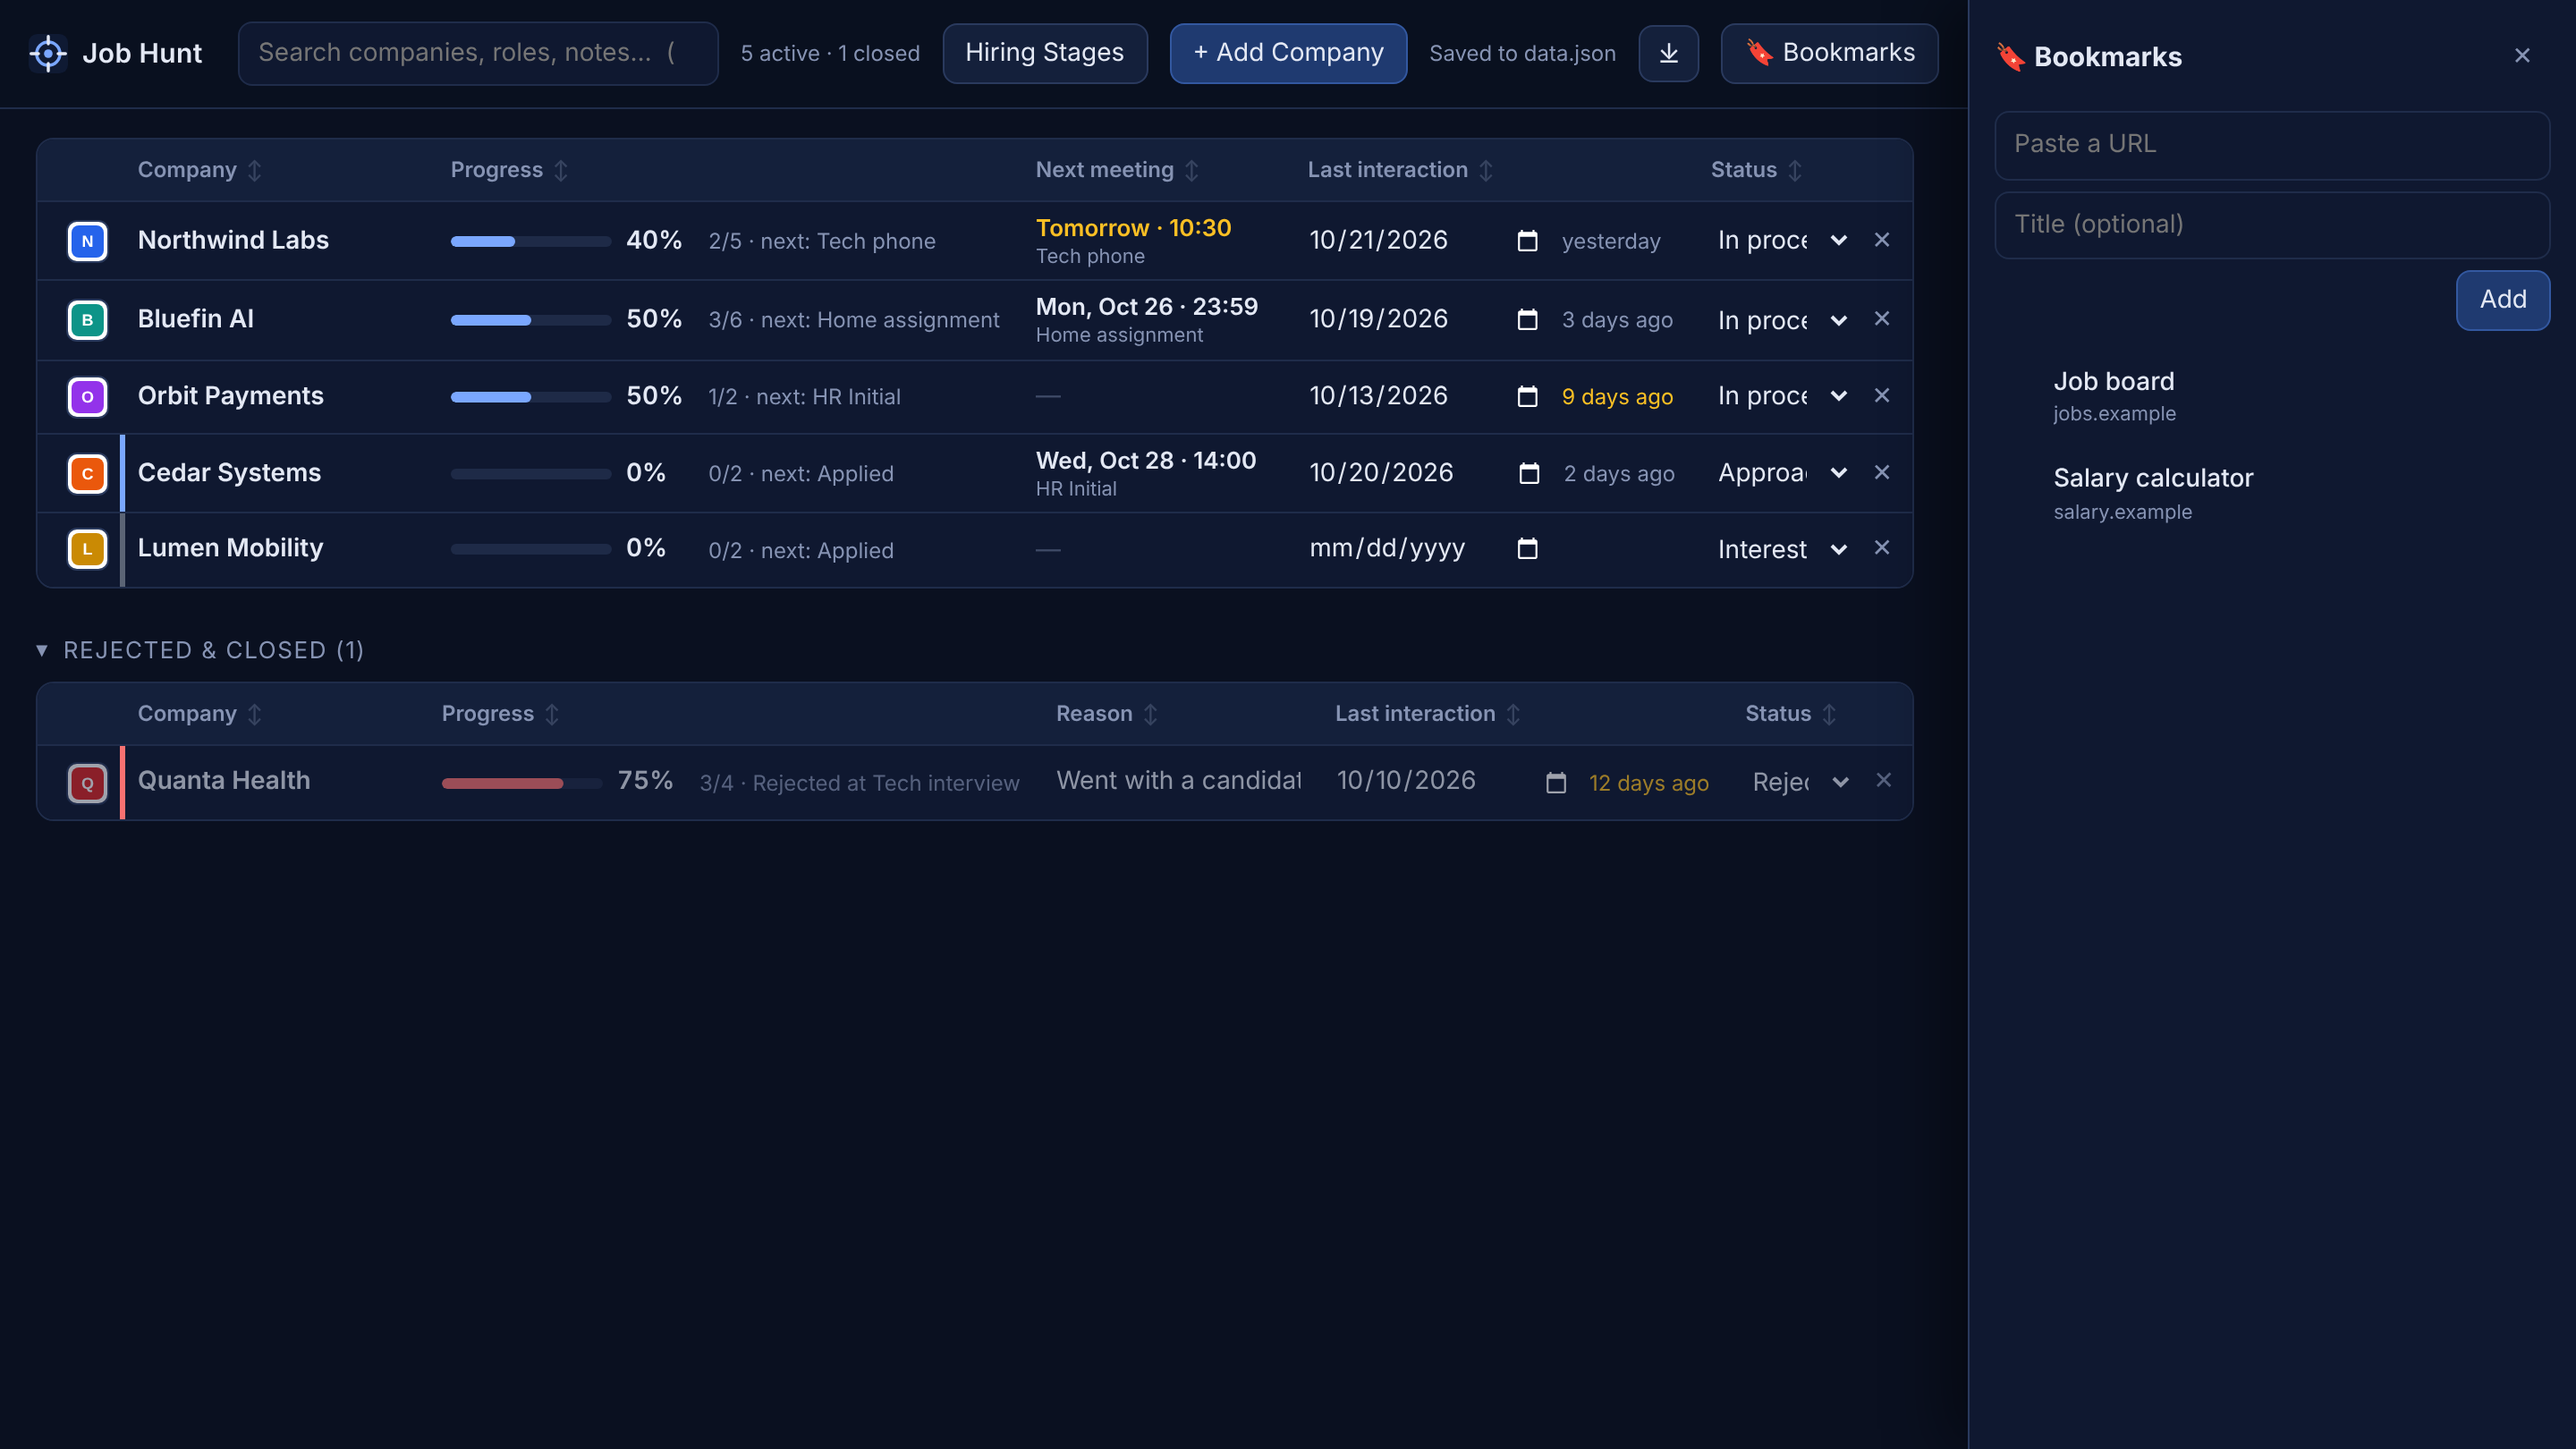
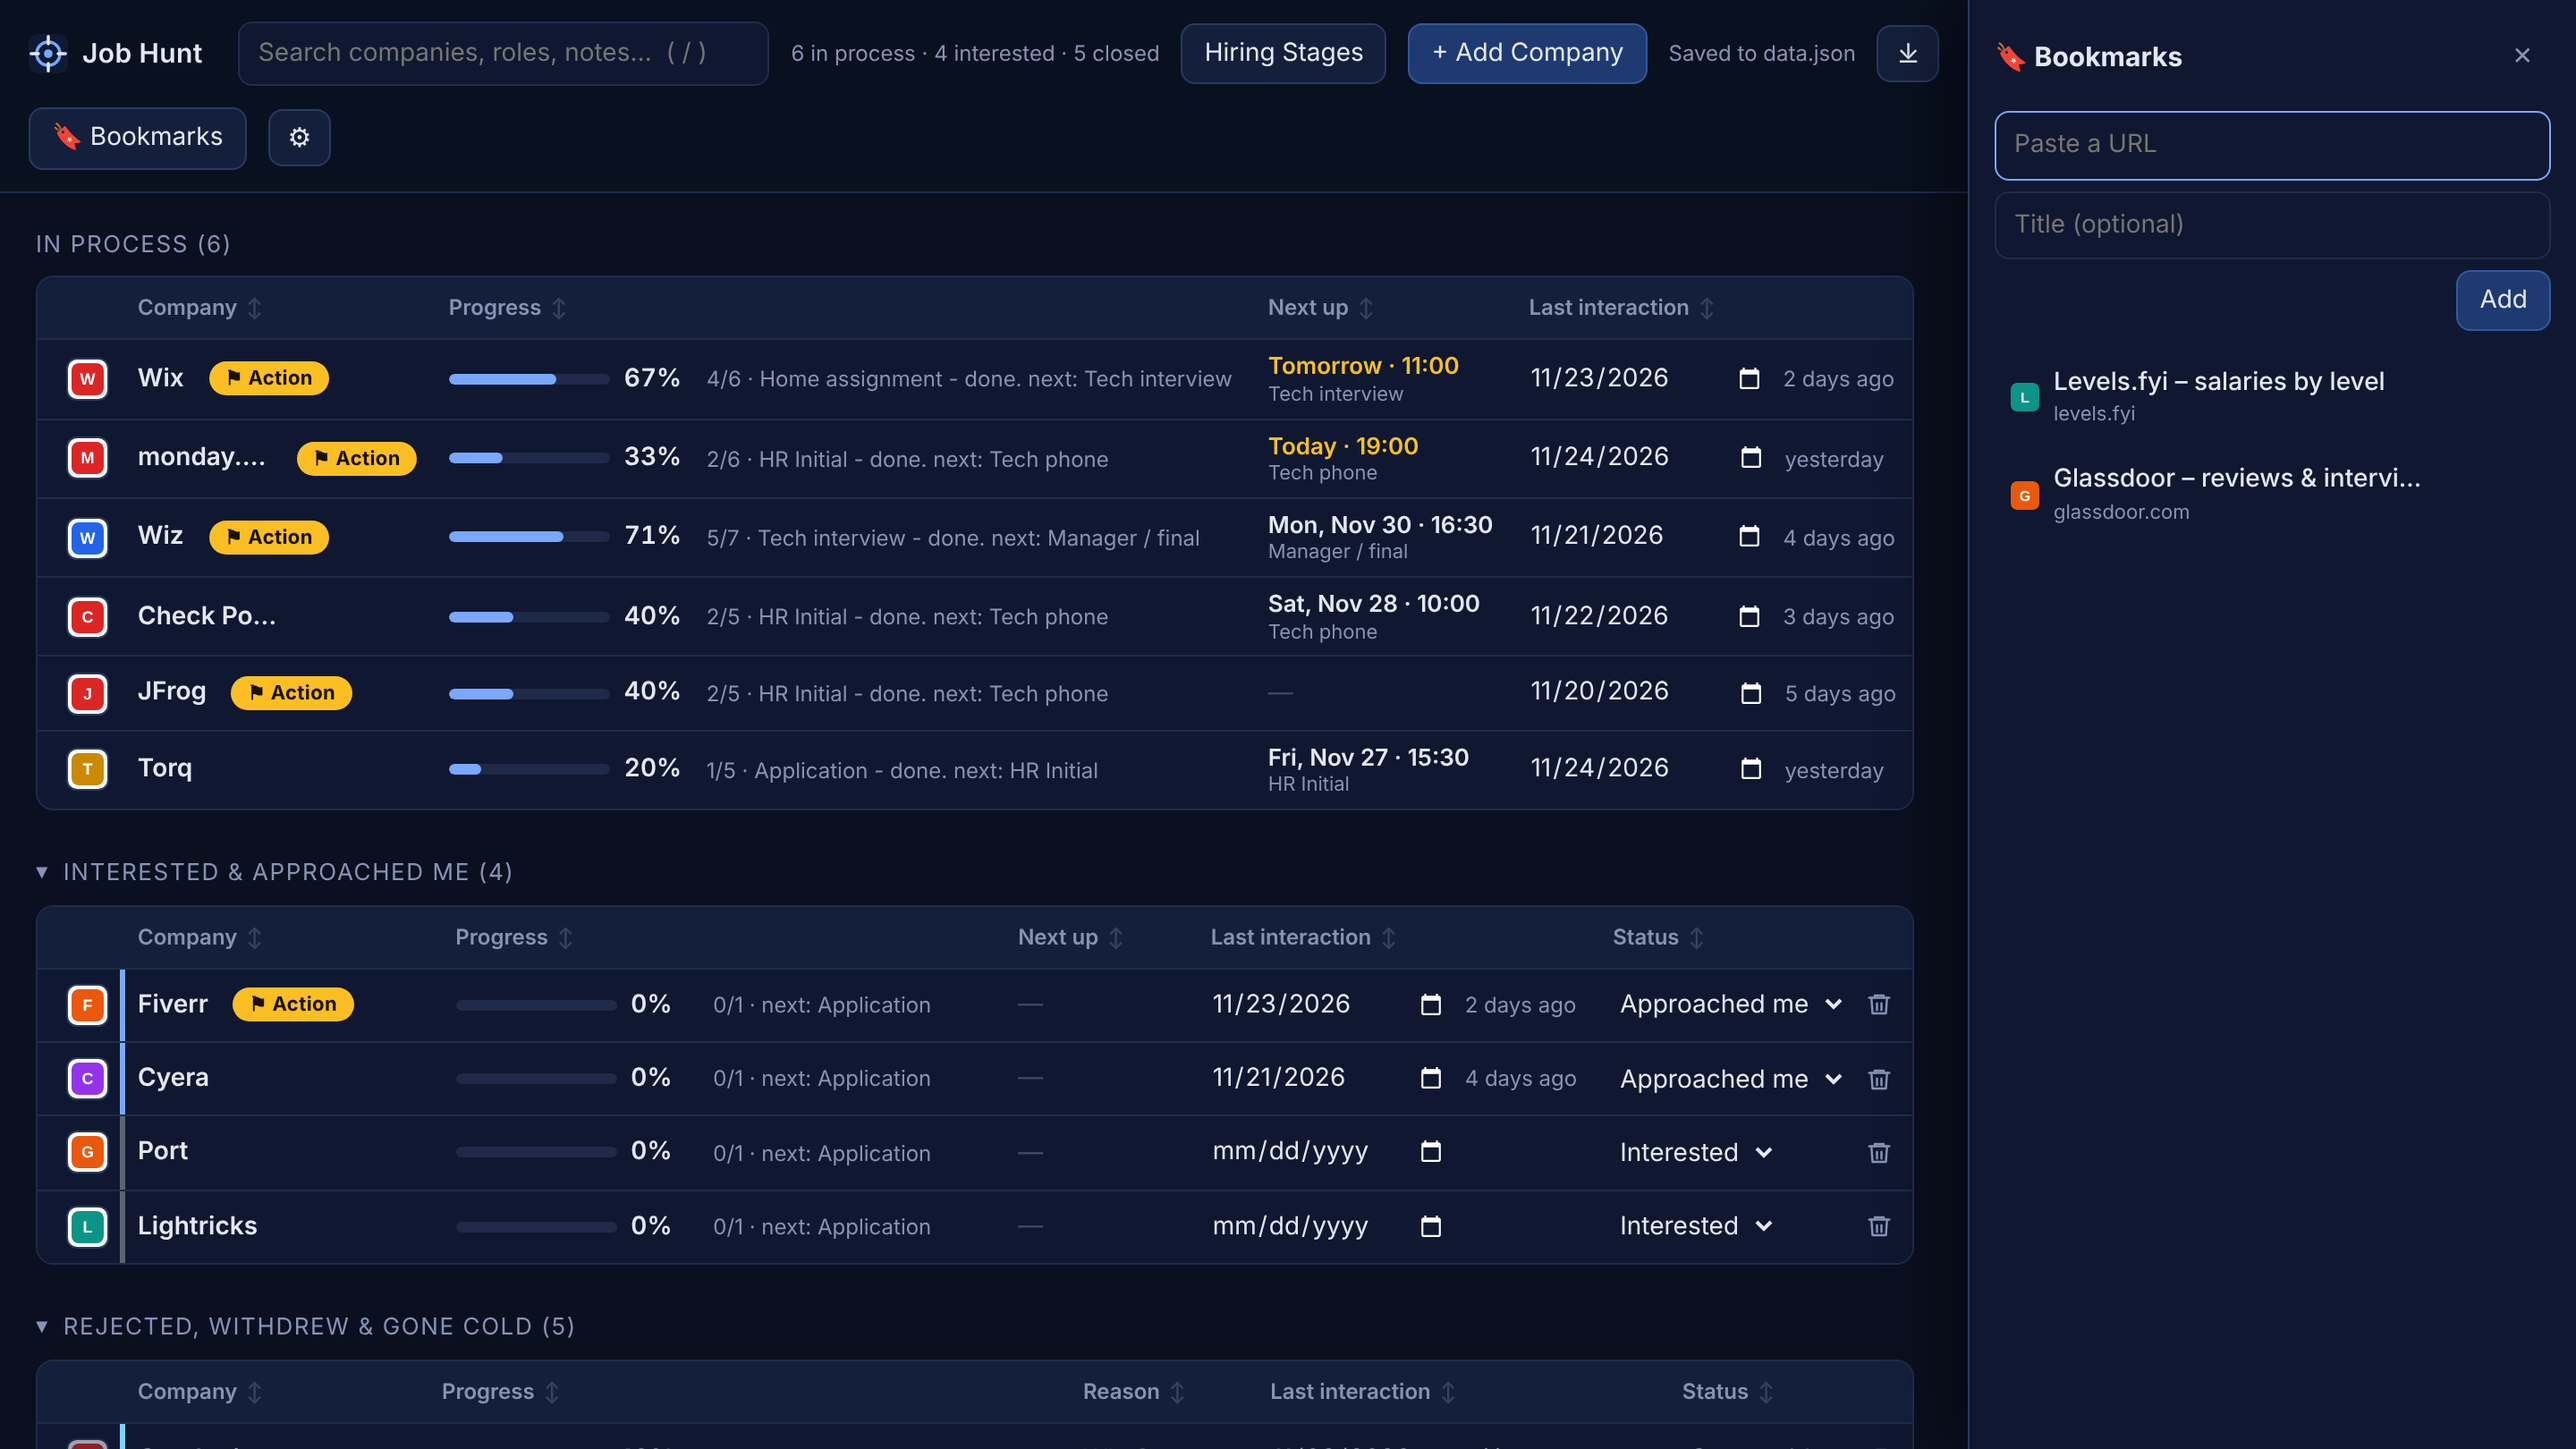
docs: retake README screenshots from the refreshed demo data
Claude-Session: https://claude.ai/code/session_018RVhxQaYCowv5TvpvRwVit

diff --git a/AGENTS.md b/AGENTS.md
@@ -538,7 +538,7 @@ Shown as an "AI notes" section on the company page with "↻ Re-analyze"; `at` +
 
 Newest first.
 
-- **2026-11-25:** Demo rebuilt (owner's request, so interviewers who clone the repo see a used app): 15 real Israeli
+- **2026-11-25:** README screenshots retaken from the new demo data (Playwright, 1440x810 at 2x; Google favicon requests stubbed with letter tiles because the sandbox is offline). Demo rebuilt (owner's request, so interviewers who clone the repo see a used app): 15 real Israeli
   companies, 8 well-known and 7 lesser-known startups (Torq, Cyera, Port, Coralogix, Pecan AI, Zesty, Lightrun; fictional people, phones, notes, job posts) across all three tables, every date relative to the day
   `npm run demo` starts (meetings today/tomorrow, actions, cold and closed with reasons), CV library with two small
   generated PDFs, locked Application stage, pasted job posts, hand-written **AI notes** in the stored schema (model
